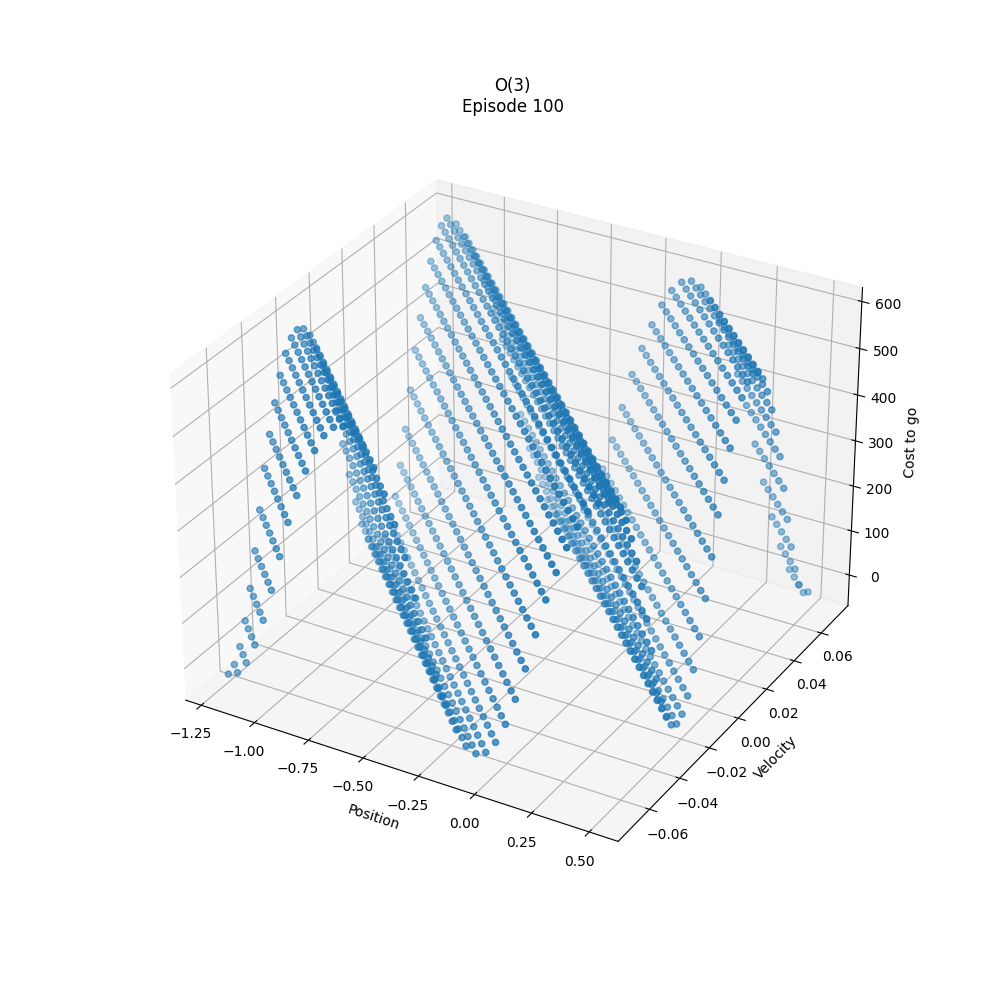
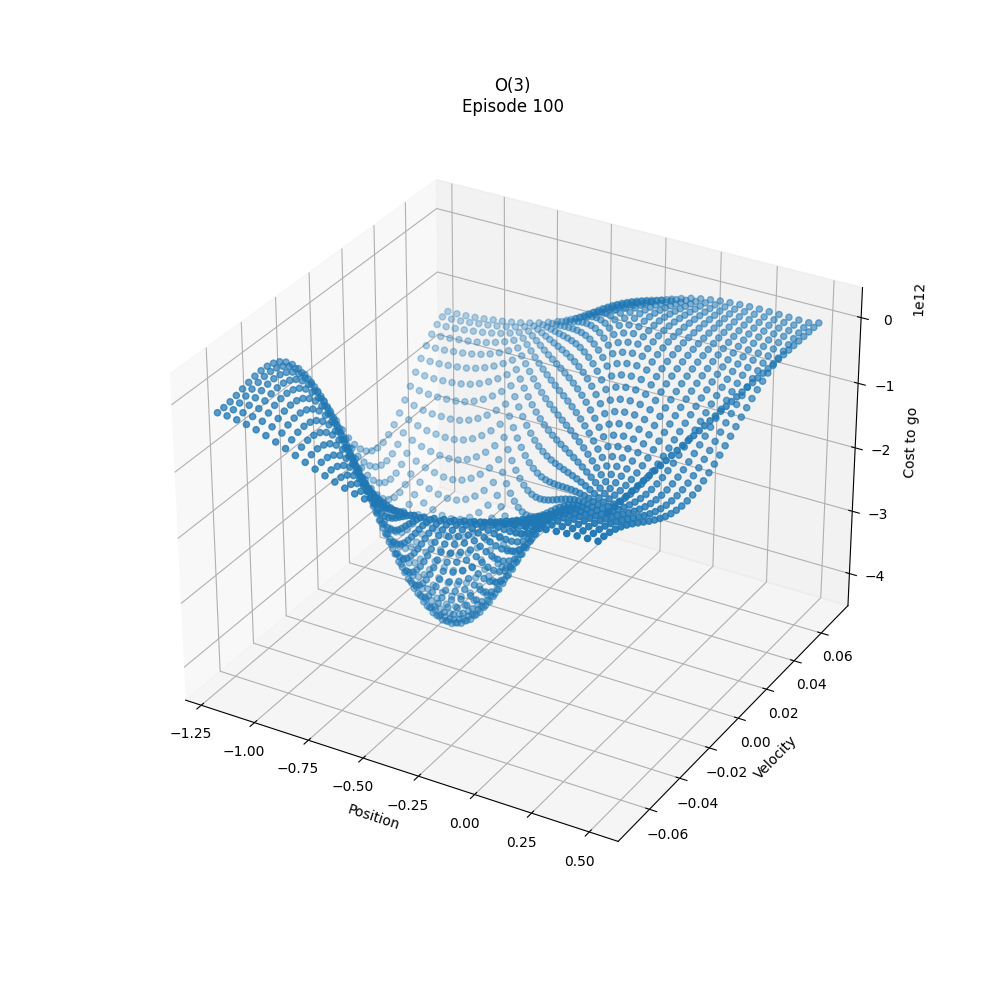
...

diff --git a/PA3/SarsaLambda.py b/PA3/SarsaLambda.py
@@ -1,69 +1,79 @@
+from itertools import product as prod
 import numpy as np
-
-from Tiles import IHT, tiles
 
 
 class SarsaLambda:
-    # In this example I use the tiling software instead of implementing standard tiling by myself
-    # One important thing is that tiling is only a map from (state, action) to a series of indices
-    # It doesn't matter whether the indices have meaning, only if this map satisfy some property
-    # View the following webpage for more information
-    # http://incompleteideas.net/sutton/tiles/tiles3.html
-    # @maxSize: the maximum # of indices
-    def __init__(self, lam, alpha, model, discount=1, num_of_tilings=8, max_size=2048):
-        self.lam = lam
-        self.alpha = alpha / num_of_tilings
+    def __init__(self, model, lam: float, alpha: float, gamma: float, epsilon: float, order: int, max_steps: int = 1000):
         self.model = model
+        self.lam = lam
+        self.alpha = alpha
+        self.gamma = gamma
+        self.epsilon = epsilon
+        self.alphas = [alpha]
+        self.order = order
+        self.dims = len(model.getState())
+        self.max_steps = max_steps
+        self.num_bases = (order + 1) ** self.dims
 
-        self.discount = discount
-        self.num_of_tilings = num_of_tilings
-        self.max_size = max_size
+        # set up basis function
+        all_consts = list(prod(range(order + 1), repeat=self.dims))
+        all_consts.remove(all_consts[0])
+        self.basis = [lambda _: 1]
+        for const in all_consts:
+            const = np.array(const)
+            self.basis.append(lambda s, c=const: np.cos(np.pi * np.dot(s, c)))
+            self.alphas.append(alpha / np.linalg.norm(const))
+        self.alphas = np.array([self.alphas] * len(model.actions)).T
 
-        # set up bases function
-        self.bases = []
-        for n in range(3 + 1):
-            self.bases.append(lambda s, i=n: np.cos(i * np.pi * s))
+        self.weights = np.zeros((self.num_bases, len(model.actions)))
 
-        self.hash_table = IHT(max_size)
+    def normalize(self, s):
+        S = s.copy()
+        for i in range(len(S)):
+            S[i] = (S[i] - self.model.min_maxes[i * 2]) /\
+                   (self.model.min_maxes[i * 2 + 1] - self.model.min_maxes[i * 2])
+        return np.array(S)
 
-        # weight for each tile
-        self.weights = np.zeros(self.max_size)
-
-        # trace for each tile
-        self.trace = np.zeros(max_size)
-
-        # position and velocity needs scaling to satisfy the tile software
-        self.position_scale = self.num_of_tilings / (model.min_maxes[1] - model.min_maxes[0])
-        self.velocity_scale = self.num_of_tilings / (model.min_maxes[3] - model.min_maxes[2])
-
-    # get indices of active tiles for given state and action
-    def get_active_tiles(self, state, action):
-        # I think positionScale * (position - position_min) would be a good normalization.
-        # However, positionScale * position_min is a constant, so it's ok to ignore it.
-        return tiles(self.hash_table, self.num_of_tilings,
-                     [self.position_scale * state[0], self.velocity_scale * state[1]], [action])
+    def getAction(self, S) -> int:
+        if np.random.uniform() <= self.epsilon:
+            return np.random.choice(self.model.actions)
+        return int(np.argmax([self.value(S, A) for A in range(len(self.model.actions))]))
 
     # estimate the value of given state and action
-    def value(self, action):
-        if self.model.isTerminal():
+    def value(self, S, A: int) -> float:
+        if self.model.isTerminal(S):
             return 0.0
-        return np.sum(self.weights[self.get_active_tiles(self.model.getState(), action)])
 
-    # learn with given state, action and target
-    def learn(self, state, action, target):
-        active_tiles = self.get_active_tiles(state, action)
-        delta = target - np.sum(self.weights[active_tiles])
+        phi = np.array([feature(self.normalize(S)) for feature in self.basis])
+        return float(np.dot(self.weights[:, A], phi))
 
-        # Replacing Trace
-        active = np.in1d(np.arange(len(self.trace)), active_tiles)
-        self.trace[active] = 1
-        self.trace[~active] *= self.lam * self.discount
+    def playEpisode(self) -> int:
+        self.model.reset()
+        S = self.model.getState()
+        z = np.zeros((self.num_bases, len(self.model.actions)))
+        A = self.getAction(S)
 
-        self.weights += self.alpha * delta * self.trace
+        for steps in range(self.max_steps):
+            phi = np.array([feature(self.normalize(S)) for feature in self.basis])
+
+            z[:, A] = phi
+            R, S_p = self.model.update(A)
+            delta = R - self.value(S, A)
+
+            if self.model.isTerminal():
+                self.weights += delta * z * self.alphas
+                return steps + 1
+
+            A_p = self.getAction(S_p)
+            delta += self.gamma * self.value(S_p, A_p)
+            self.weights += delta * z * self.alphas
+            z *= self.gamma * self.lam
+            S = S_p
+            A = A_p
+
+        return self.max_steps
 
     # get # of steps to reach the goal under current state value function
-    def cost_to_go(self):
-        costs = []
-        for action in self.model.actions:
-            costs.append(self.value(action))
-        return -np.max(costs)
+    def cost_to_go(self) -> float:
+        S = self.model.getState()
+        return -max([self.value(S, A) for A in range(len(self.model.actions))])

diff --git a/PA3/temp.py b/PA3/temp.py
@@ -1,5 +1,4 @@
 from itertools import product as prod
-
 import numpy as np
 
 
@@ -20,10 +19,10 @@ class SarsaLambda:
         all_consts = list(prod(range(order + 1), repeat=self.dims))
         all_consts.remove(all_consts[0])
         self.basis = [lambda _: 1]
-        for c in all_consts:
-            c = np.array(c)
-            self.basis.append(lambda s: np.cos(np.pi * np.dot(s, c)))
-            self.alphas.append(alpha / np.linalg.norm(c))
+        for const in all_consts:
+            const = np.array(const)
+            self.basis.append(lambda s, c=const: np.cos(np.pi * np.dot(s, c)))
+            self.alphas.append(alpha / np.linalg.norm(const))
         self.alphas = np.array([self.alphas] * len(model.actions)).T
 
         self.weights = np.zeros((self.num_bases, len(model.actions)))
@@ -38,15 +37,15 @@ class SarsaLambda:
     def getAction(self, S) -> int:
         if np.random.uniform() <= self.epsilon:
             return np.random.choice(self.model.actions)
-        return self.model.actions[np.argmax([self.value(S, A) for A in self.model.actions])]
+        return int(np.argmax([self.value(S, A) for A in range(len(self.model.actions))]))
 
     # estimate the value of given state and action
     def value(self, S, A: int) -> float:
-        # if self.model.isTerminal(S):
-        #     return 0.0
+        if self.model.isTerminal(S):
+            return 0.0
 
         phi = np.array([feature(self.normalize(S)) for feature in self.basis])
-        return float(np.dot(self.weights[:, self.model.actions.index(A)], phi))
+        return float(np.dot(self.weights[:, A], phi))
 
     def playEpisode(self) -> int:
         self.model.reset()
@@ -55,10 +54,9 @@ class SarsaLambda:
         A = self.getAction(S)
 
         for steps in range(self.max_steps):
-            A_ind = self.model.actions.index(A)
             phi = np.array([feature(self.normalize(S)) for feature in self.basis])
 
-            z[:, A_ind] += phi
+            z[:, A] = phi
             R, S_p = self.model.update(A)
             delta = R - self.value(S, A)
 
@@ -78,4 +76,4 @@ class SarsaLambda:
     # get # of steps to reach the goal under current state value function
     def cost_to_go(self) -> float:
         S = self.model.getState()
-        return -max([self.value(S, A) for A in self.model.actions])
+        return -max([self.value(S, A) for A in range(len(self.model.actions))])

diff --git a/PA3/temp2.py b/PA3/temp2.py
@@ -7,13 +7,14 @@ env = gym.make('MountainCar-v0')
 # env=gym.make('CartPole-v1') #change num_actions to 2
 
 num_actions = 3  # number of available actions
-num_episodes = 1000
+num_episodes = 100
 fourier_order = 3  # change order as desired.
 basealpha = 0.001  # change required base alpha
 observations_dim = np.shape(env.observation_space.high)[0]  # the observations in the environment
 
 w = np.zeros([pow(fourier_order + 1, observations_dim),
               num_actions])  # weight matrix, with number of columns equal number of actions
+
 stepcount = np.zeros([num_episodes, 1])
 gamma = 1  # discount factor
 zeta = 0.9  # bootstrapping parameter, note that lambda is keyword in python
@@ -30,7 +31,6 @@ def createalphas(basealpha, fourier_order, observations_dim):  # different alpha
     d = np.expand_dims(d, axis=1)
     alphavec = np.tile(d, num_actions)
     alphavec = np.reshape(alphavec, (-1, num_actions))
-    print(alphavec)
     return alphavec
 
 
@@ -84,9 +84,10 @@ alphavec = createalphas(basealpha, fourier_order, observations_dim)
 # env.monitor.start('/tmp/acrobot-experiment-1',force='True')
 for i in range(int(num_episodes)):
     env.reset()
-    curstate = env.observation_space.sample()
+    curstate = [-0.5, 0]  # env.observation_space.sample()
     e = np.zeros(np.shape(w))
     curaction = epsilon_greedy(curstate, epsilon, w)  # epsilon greedy selection
+
     steps = 0
     while steps < 1000:
         steps += 1
@@ -96,6 +97,7 @@ for i in range(int(num_episodes)):
         stepcount[i, 0] = stepcount[i, 0] + 1
         e[:, curaction] = e[:, curaction] + computeFourierBasis(curstate, fourier_order,
                                                                 observations_dim)  # accumulating traces
+        print(e)
         nextstate, reward, done, info, _ = env.step(curaction)
         delta = reward - computevalue(w, curaction, curstate)  # The TD Error
 

diff --git a/PA3/MountainCar.py b/PA3/MountainCar.py
@@ -1,36 +1,29 @@
 import numpy as np
+from gym.envs.classic_control.mountain_car import MountainCarEnv
 
 
-class MountainCar:
-    def __init__(self, position: float = None, velocity: float = 0.0):
-        if position is None:
-            position = np.random.uniform(-0.6, -0.4)
-        self.x = position
-        self.v = velocity
-        self.actions = [-1, 0, 1]
-        self.min_maxes = [-1.2, 0.5, -0.07, 0.07]  # [Min position, max position, min velocity, max velocity]
-
-    def reset(self):
-        self.x = np.random.uniform(-0.6, -0.4)
-        self.v = 0.0
+class MountainCar(MountainCarEnv):
+    # def reset():
+    #     self.state, _ = self.env.reset()
 
     def set(self, state: [float, float]):
-        self.x = state[0]
-        self.v = state[1]
+        self.state, _ = self.env.reset(options={'low': state[0], 'high': state[0]})
 
     def update(self, action: int) -> (int, [float, float]):
-        self.v += 0.001 * action - 0.0025 * np.cos(3 * self.x)
-        self.x += self.v
-
-        if self.x < self.min_maxes[0]:
-            self.x = self.min_maxes[0]
-            self.v = 0
+        self.env.step(action)
+        self.v += 0.001 * (action - 1) - 0.0025 * np.cos(3 * self.x)
 
         if self.v < self.min_maxes[2]:
             self.v = self.min_maxes[2]
 
         if self.v > self.min_maxes[3]:
             self.v = self.min_maxes[3]
+
+        self.x += self.v
+
+        if self.x < self.min_maxes[0]:
+            self.x = self.min_maxes[0]
+            self.v = 0
 
         if self.x > self.min_maxes[1]:
             self.x = self.min_maxes[1]

diff --git a/PA3/test.py b/PA3/test.py
@@ -7,15 +7,14 @@ import numpy as np
 from tqdm import tqdm
 
 from MountainCar import MountainCar
-# from SarsaLambda import SarsaLambda as sl
-from temp import SarsaLambda as sl
+from SarsaLambda import SarsaLambda as sl
 
 LAMBDA = 0.9
 ALPHA = 0.001
 GAMMA = 1.0
 EPSILON = 0.0
 EPISODES = 100
-RUNS = 1  # max(cpu_count() - 1, 1)
+RUNS = max(cpu_count() - 1, 1)
 MAX_STEPS = 1000
 
 
@@ -82,7 +81,7 @@ def main():
         plt.plot(steps[i], label='Order = %d' % order)
     plt.xlabel('Episodes')
     plt.ylabel('Steps')
-    # plt.yscale('log')
+    plt.yscale('log')
     plt.legend()
     plt.savefig('images/figure_1.png')
     plt.close()
